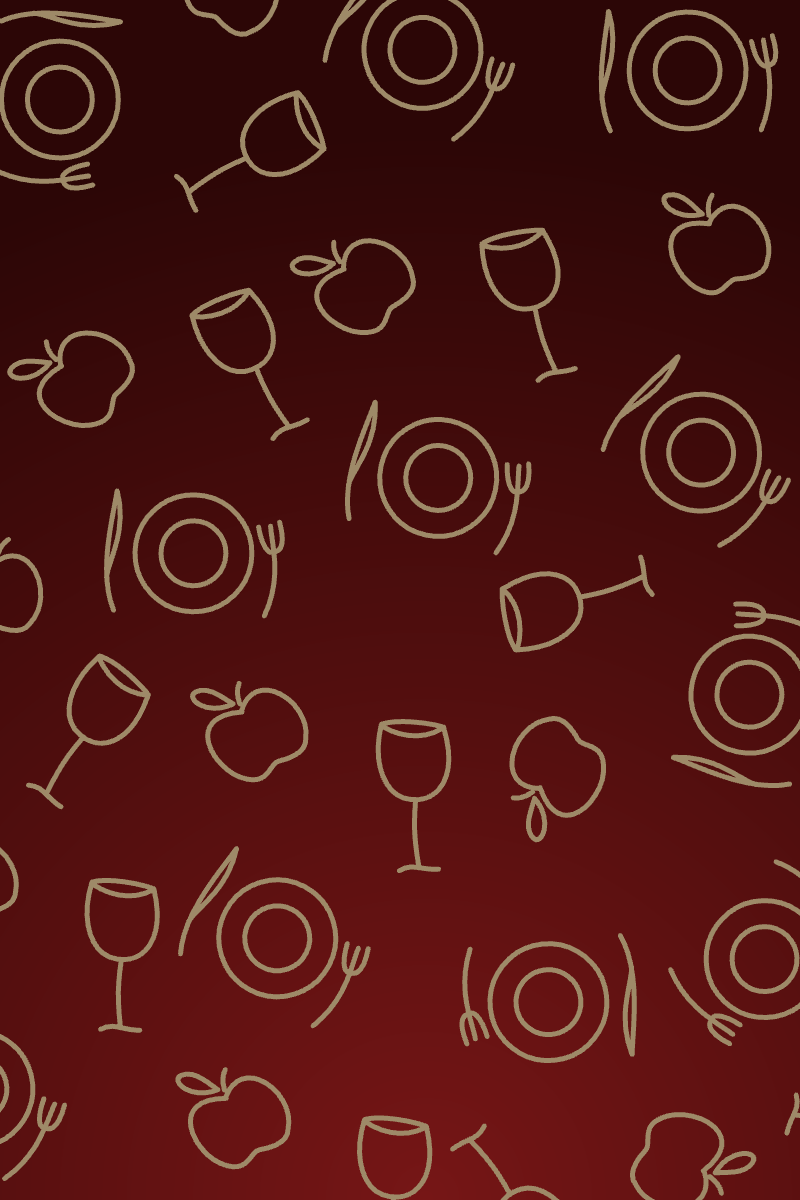
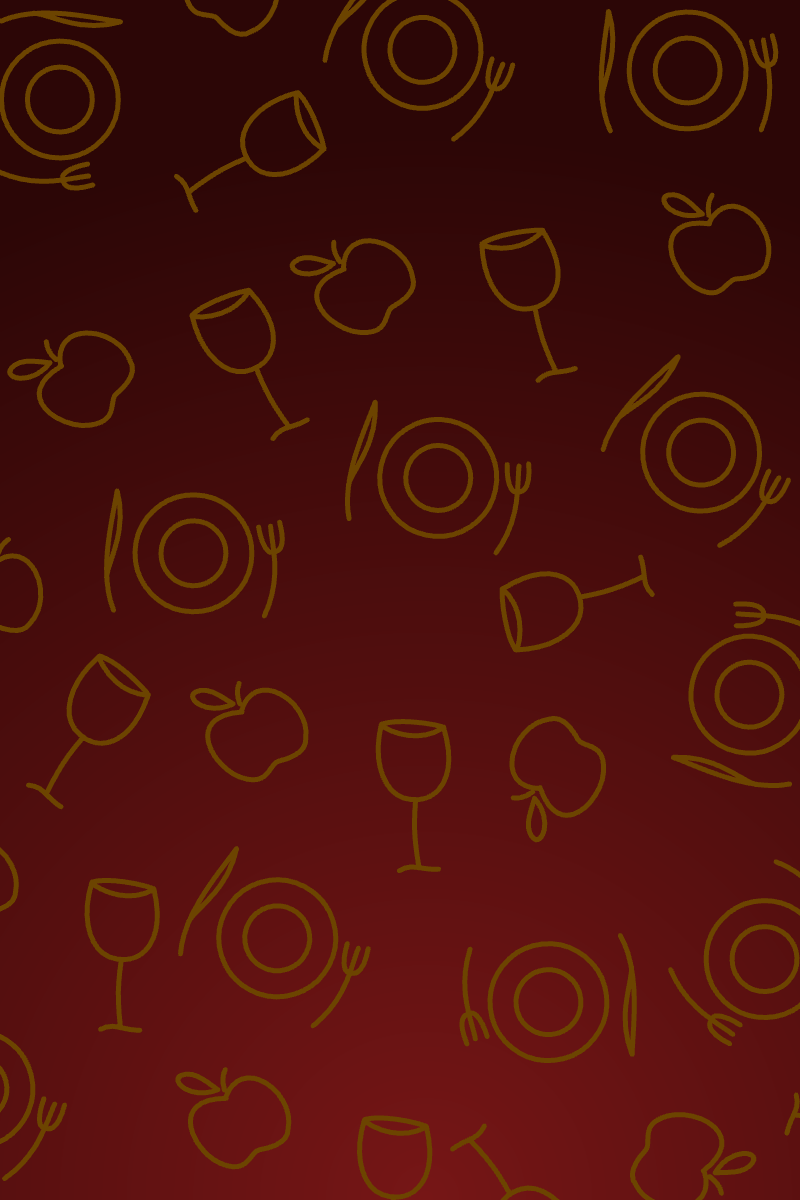
13 - primary color changed

diff --git a/lib/screens/main.dart b/lib/screens/main.dart
@@ -25,11 +25,11 @@ class MyApp extends StatelessWidget {
         title: Strings.title,
         theme: ThemeData(
 
-          primarySwatch: Colors.green,
+          primarySwatch: Colors.amber,
 
-          primaryColor: Color(0xff6a1b9a),
-          primaryColorDark: Color(0xff4a148c),
-          primaryColorLight: Color(0xff7b1fa2),
+          primaryColor: Colors.amber[600],
+          primaryColorDark: Colors.amber[700],
+          primaryColorLight: Colors.amber,
 
           // secondary color
           accentColor: Color(0xfffdd835),
